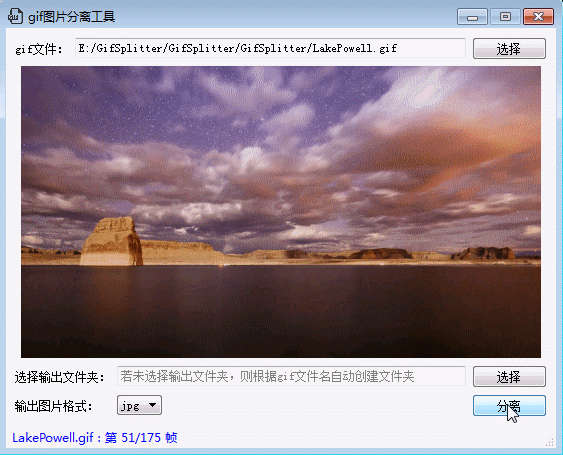
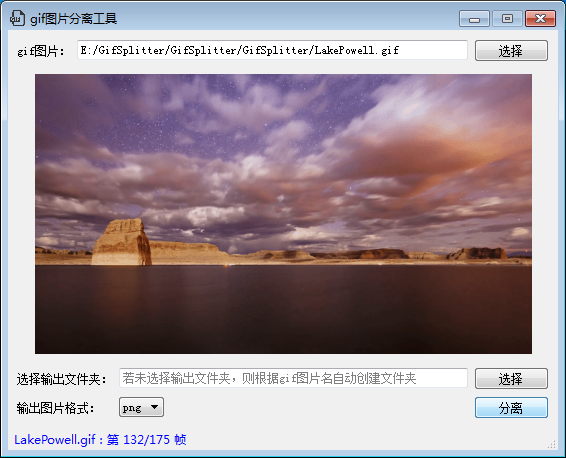
gif图片分离工具（gif splitter）

Changed region(s): [[0.0, 0.0, 1.0, 1.0]]

diff --git a/GifSplitter.cpp b/GifSplitter.cpp
@@ -17,7 +17,7 @@ void GifSplitter::setMainWidget()
     setWindowTitle(tr("gif图片分离工具"));
     mainWidget = new QWidget(this);
     setCentralWidget(mainWidget);
-    gifLabel = new QLabel(tr("gif文件："), this);
+    gifLabel = new QLabel(tr("gif图片："), this);
     gifEdit = new QLineEdit(this);
     gifEdit->setReadOnly(true);
     selectGifBtn = new QPushButton(tr("选择"), this);
@@ -25,11 +25,11 @@ void GifSplitter::setMainWidget()
     gifHLayout->addWidget(gifLabel);
     gifHLayout->addWidget(gifEdit);
     gifHLayout->addWidget(selectGifBtn);
-    showLabel = new QLabel(this);
+    showLabel = new QLabel(tr("选择载入gif图片") ,this);
     showLabel->setAlignment(Qt::AlignCenter);
     outFileLabel = new QLabel(tr("选择输出文件夹："), this);
     outFileEdit = new QLineEdit(this);
-    outFileEdit->setPlaceholderText(tr("若未选择输出文件夹，则根据gif文件名自动创建文件夹"));
+    outFileEdit->setPlaceholderText(tr("若未选择输出文件夹，则根据gif图片名自动创建文件夹"));
     selectOutBtn = new QPushButton(tr("选择"));
     outImgLabel = new QLabel(tr("输出图片格式："), this);
     imgCbB = new QComboBox(this);
@@ -62,9 +62,9 @@ void GifSplitter::setMainWidget()
 void GifSplitter::onSelectGif()
 {
     QString gifFile = QFileDialog::getOpenFileName(this,
-                                                   tr("选择gif文件"),
+                                                   tr("选择gif图片"),
                                                    lastPath,
-                                                   tr("gif文件(*.gif)"));
+                                                   tr("gif图片(*.gif)"));
     if(gifFile.isEmpty())
         return;
     startMovie(gifFile);
@@ -72,6 +72,10 @@ void GifSplitter::onSelectGif()
 
 void GifSplitter::startMovie(const QString &gifFile)
 {
+    if(showLabel->movie()) {
+        showLabel->movie()->stop();
+        showLabel->movie()->deleteLater();
+    }
     gifEdit->setText(gifFile);
     QMovie *movie = new QMovie(gifFile);
     movie->setCacheMode(QMovie::CacheAll);
@@ -83,15 +87,15 @@ void GifSplitter::startMovie(const QString &gifFile)
     //设置显示gif图片的最大宽高
     int tempWidth = img.width();
     int tempHeight = img.height();
-    if(img.height() > 240) {
-        tempHeight = 240;
-        tempWidth = img.width() * 240 / img.height();
+    if(tempHeight > 280) {
+        tempHeight = 280;
+        tempWidth = img.width() * 280 / img.height();
         if(tempWidth > 520) {
-            tempHeight = 520 * 240 / tempWidth;
+            tempHeight = 520 * 280 / tempWidth;
             tempWidth = 520;
         }
     }
-    if(img.width() > 520) {
+    if(tempWidth > 520) {
         tempWidth = 520;
         tempHeight = img.height() * 520 / img.width();
     }
@@ -136,7 +140,7 @@ void GifSplitter::receiveMsg(QString gifDir, QString msg)
     if(msg.isEmpty()) {
         int ret = QMessageBox::information(this,
                                            windowTitle(),
-                                           tr("gif文件分离完毕"),
+                                           tr("gif图片分离完毕"),
                                            tr("确定"),
                                            tr("打开文件夹"));
         if(ret == 1) {
@@ -150,7 +154,7 @@ void GifSplitter::receiveMsg(QString gifDir, QString msg)
     statusBar->showMessage(msg);
 }
 
-//快速拖放gif文件
+//快速拖放gif图片
 void GifSplitter::dragEnterEvent(QDragEnterEvent *event)
 {
     if (event->mimeData()->hasUrls())
